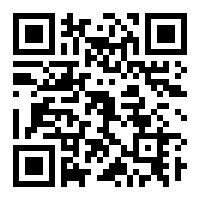
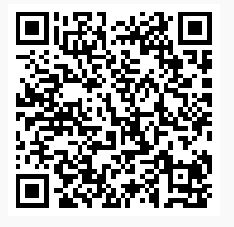
update info

diff --git a/pages/index.js b/pages/index.js
@@ -104,14 +104,14 @@ const Index = props => (
           <Line
             text={`bitcoin: `}
             href={`/imgs/btc-qr-code.jpg`}
-            link={`1qa4xA4DXR26oPhXXAvy9ivByDYXkmhpU`}
+            link={`39tir5ydxv8k81gaTVNXpBxhjpDricNrTW`}
           >
             <BitcoinIcon />
           </Line>
           <Line
             text={`ethereum: `}
             href={`/imgs/eth-qr-code.jpg`}
-            link={`0xc3adab50c47b3d9c3342d71202838ddb5f09a050`}
+            link={`0x69323bd279f2ed51bffe88ab8f25a46fc53562bb`}
           >
             <EthIcon />
           </Line>
